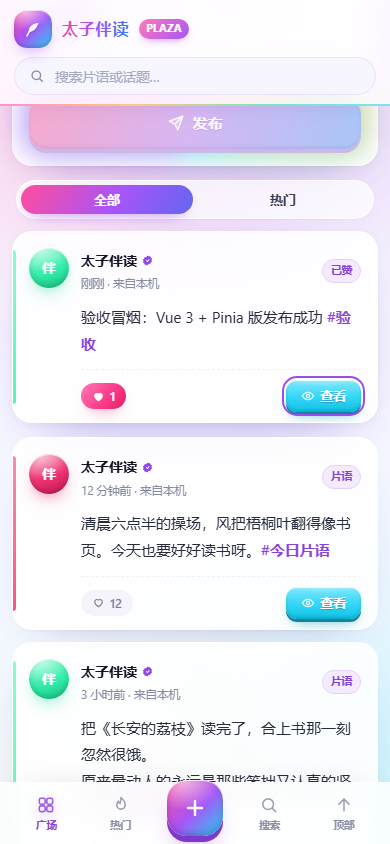
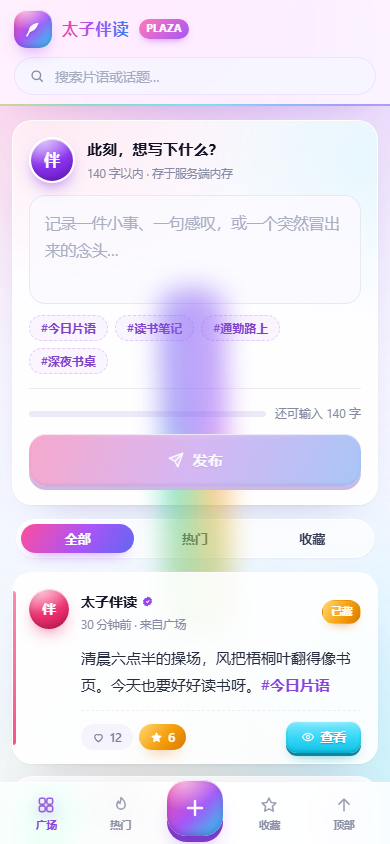
docs: 重拍功能截图（收藏/点赞状态），根 README 展示新版界面

diff --git a/README.md b/README.md
@@ -11,7 +11,9 @@
 > npm run test    # 176 个测试用例（含后端 API 契约测试）
 > ```
 >
-> 下方内容为原始单文件版本（`index.html`）的说明，保留作对照。
+> ![新版界面（Vue 3 + Hono）](taizi-vue/screenshots/desktop.png)
+>
+> 下方内容为原始单文件版本（`index.html`）的说明，保留作对照；其中截图均为原始版本，与新版的收藏能力无关。
 
 一个纯前端的轻量级动态广场：打开页面，写下 140 字以内的片语，它会带着自己的一抹颜色落进信息流，并安静地保存在这台设备上。
 
@@ -19,7 +21,7 @@
 
 ---
 
-## 功能截图
+## 功能截图（原始单文件版本）
 
 桌面端：
 
